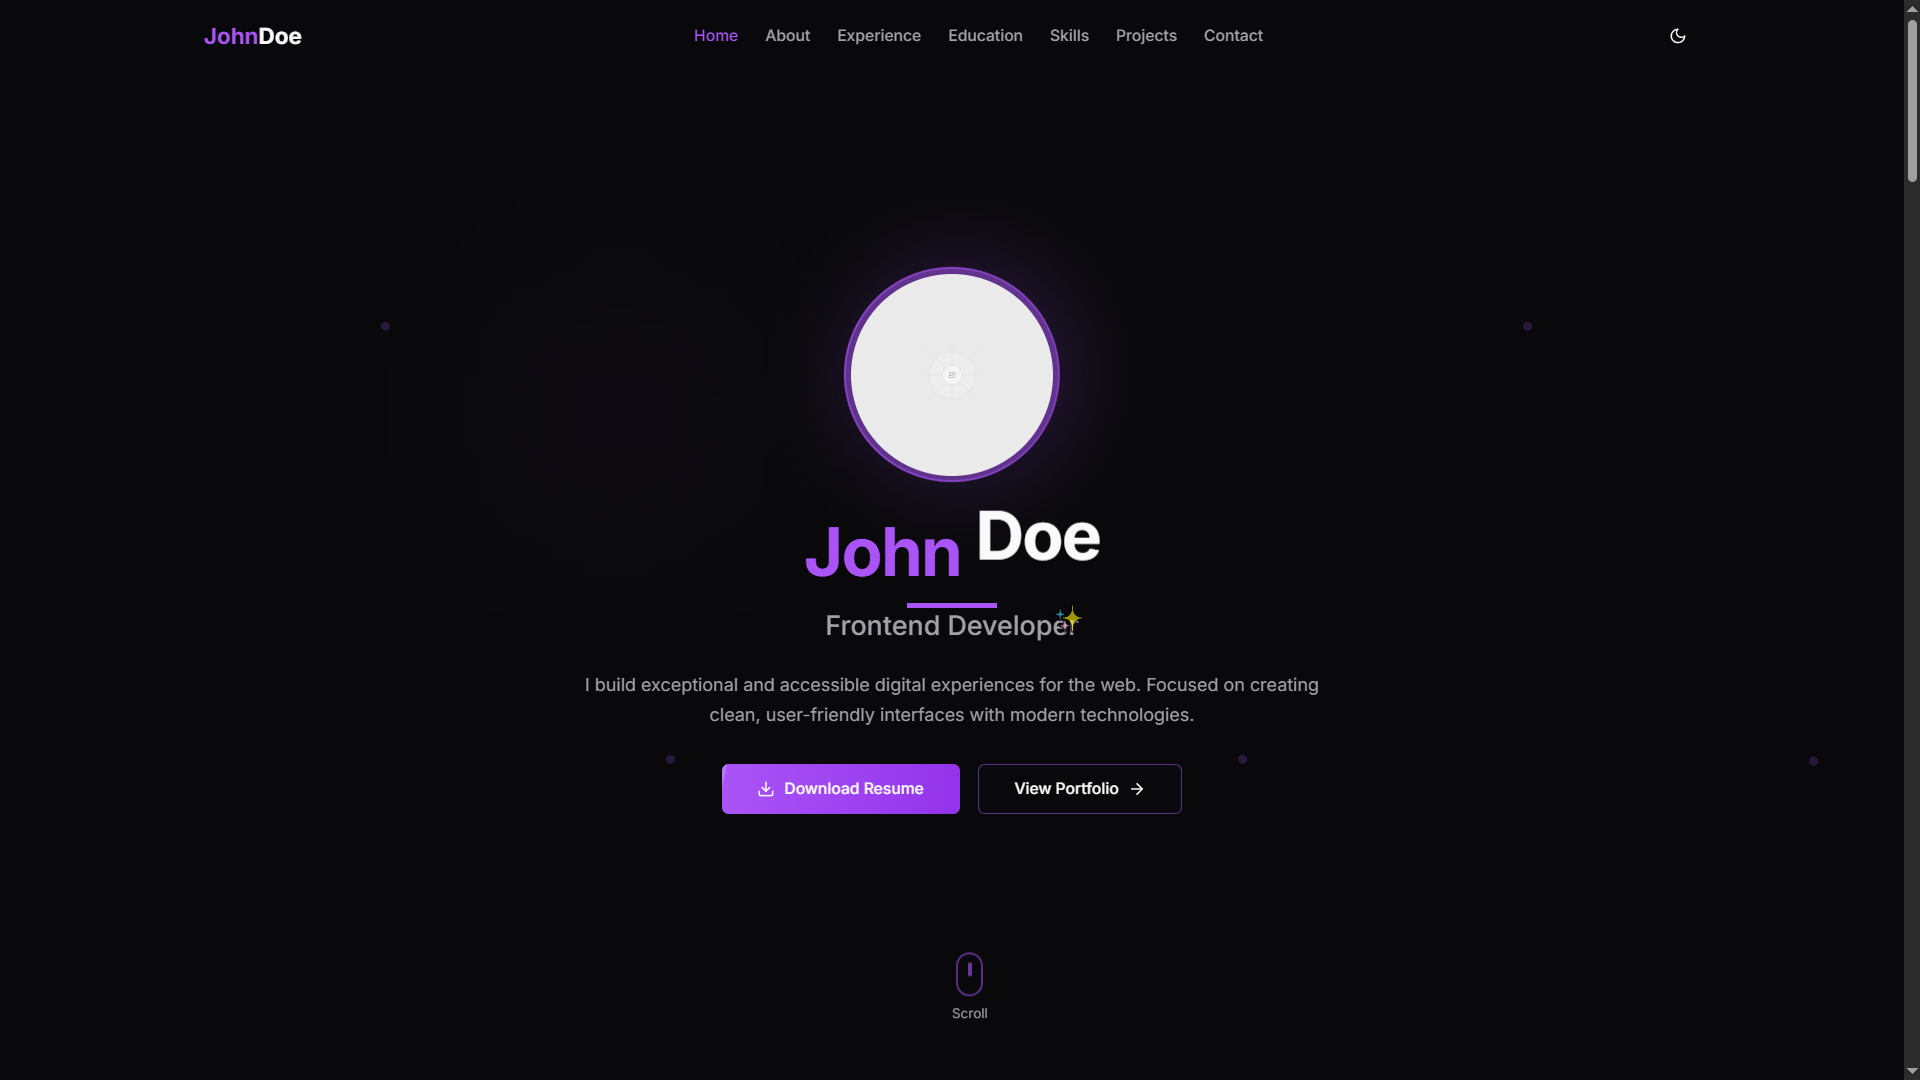
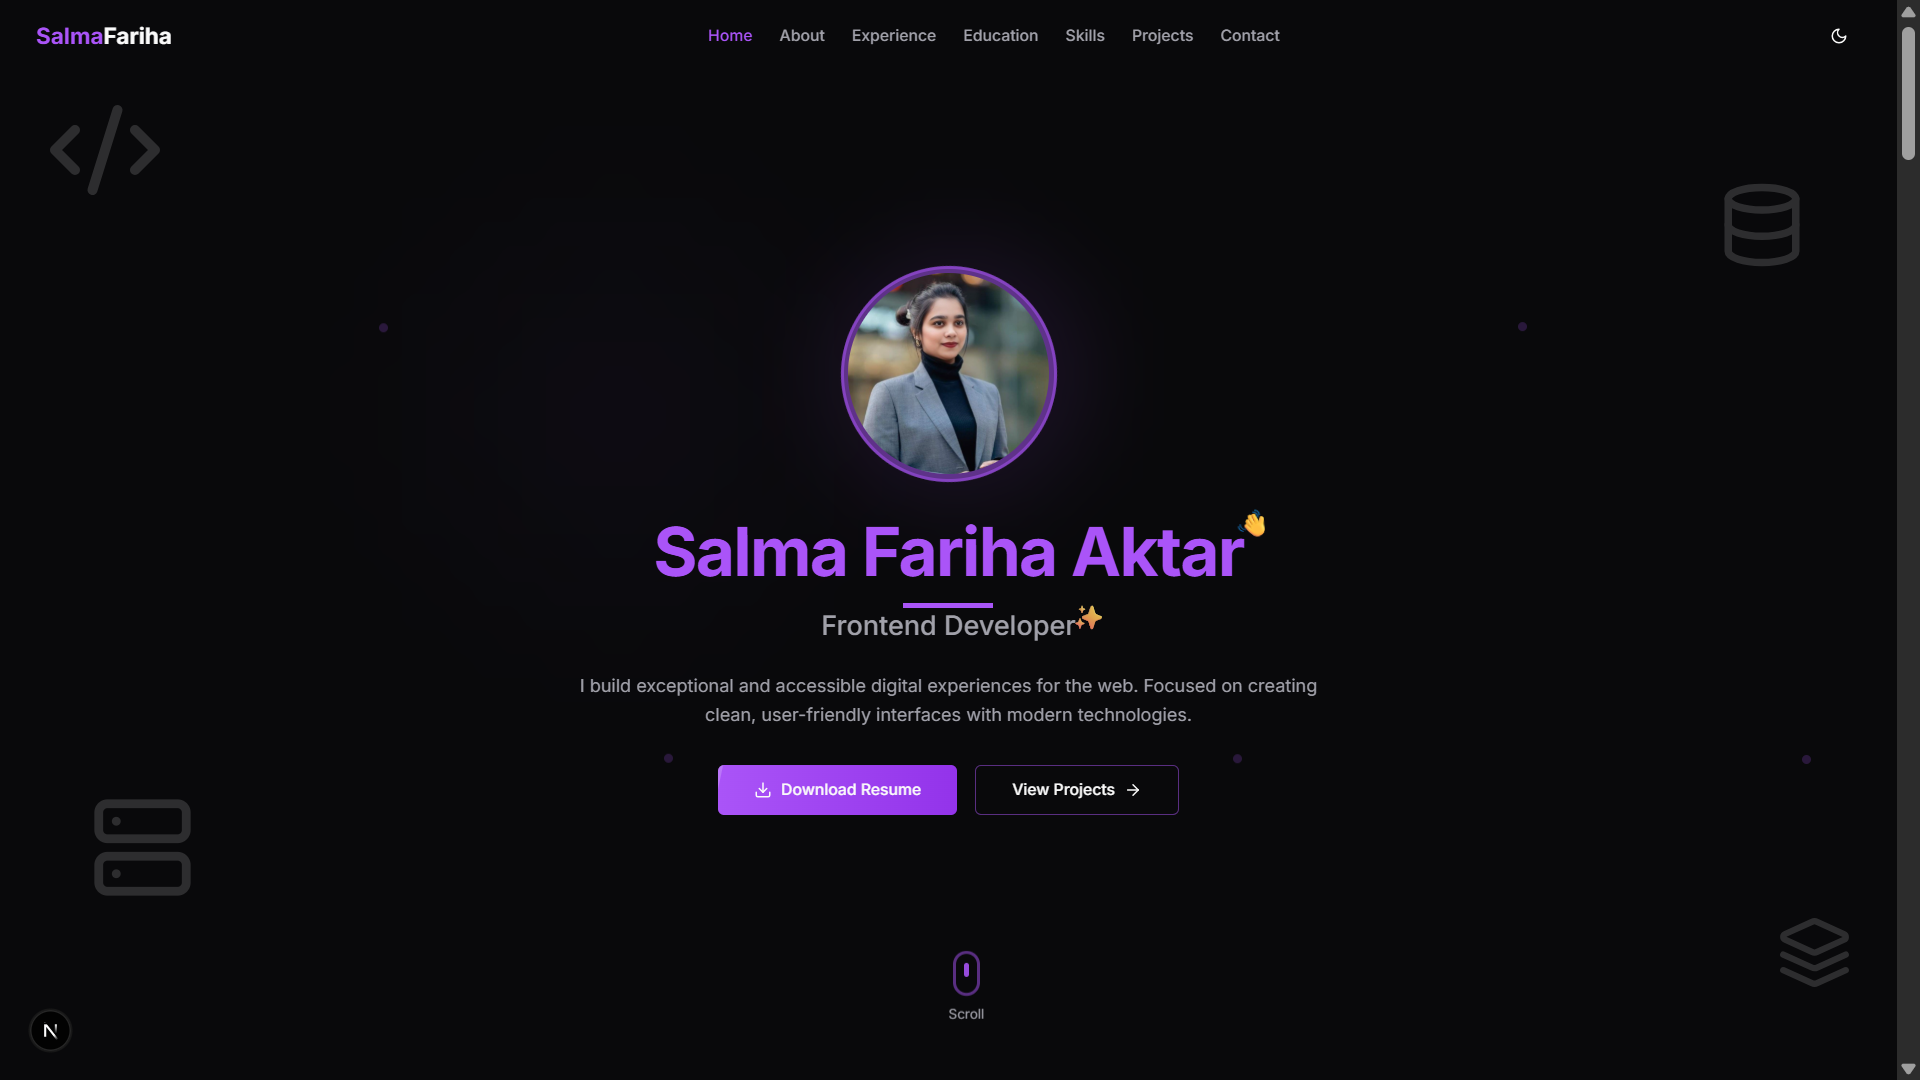
v0.0.2 data added

diff --git a/lib/data.tsx b/lib/data.tsx
@@ -10,8 +10,8 @@ export const PORTFOLIO_DATA = {
     locationLink: "https://www.google.com/maps/place/dhaka",
     email: "john.doe@example.com",
     phone: "+1 (234) 567-890",
-    website: "https://johndoe.dev",
-    avatarUrl: "/placeholder.svg?height=192&width=192",
+    website: "https://salma-fariha-frontend-portfolio.vercel.app/",
+    avatarUrl: "/fariha-pic.png?height=192&width=192",
     description:
       "I build exceptional and accessible digital experiences for the web. Focused on creating clean, user-friendly interfaces with modern technologies.",
     summary:
@@ -365,8 +365,8 @@ export const PORTFOLIO_DATA = {
         "Dark/light mode",
         "Performance optimized"
       ],
-      liveUrl: "https://kzmgcl5zvvnlnme3oc47.lite.vusercontent.net/",
-      codeUrl: "https://github.com/rafin333",
+      liveUrl: "https://salma-fariha-frontend-portfolio.vercel.app/",
+      codeUrl: "https://github.com/rafin333/client-portfolio",
       featured: false,
       status: "completed",
       date: "2024",

diff --git a/components/data-driven-hero.tsx b/components/data-driven-hero.tsx
@@ -1,5 +1,3 @@
-// this is last update
-
 "use client"
 
 import type React from "react"
